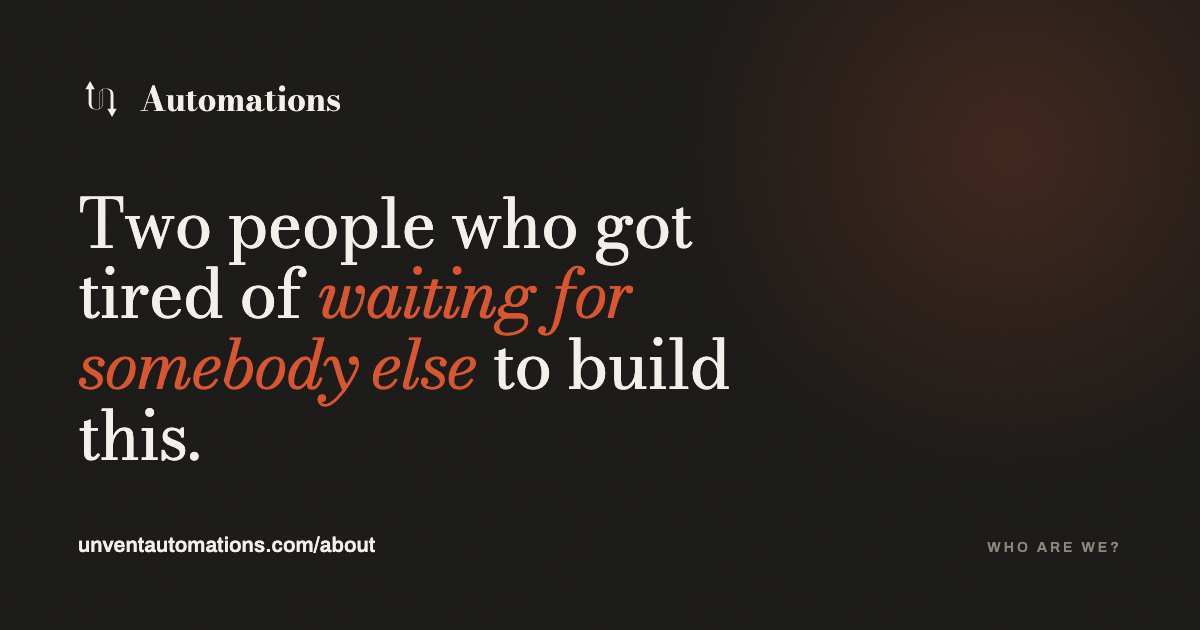
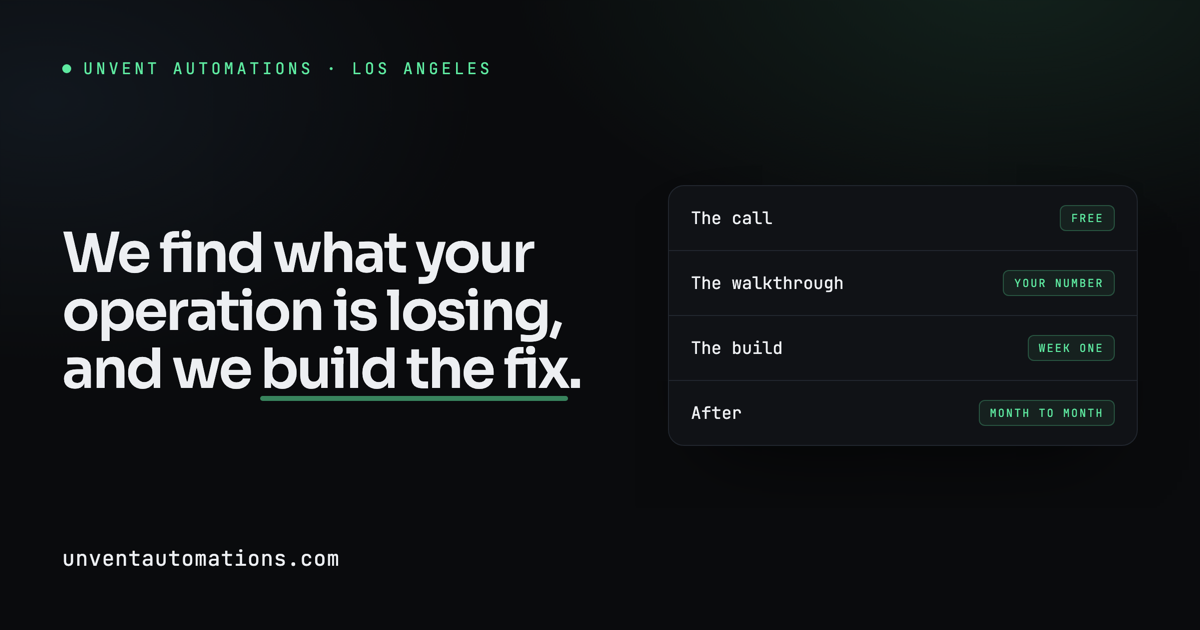
New link-preview cards matching the redesign
The OG images were still the old Bodoni design, so a shared link showed the
previous site under the new headline. Rebuilt both cards from the live design
system: dark ground, Sora and JetBrains Mono, the operations console on the
home card and the engagement table on the about card.

- Rendered at 2x and downsampled to the 1200x630 spec
- og-image.png 451KB -> 219KB, og-about.png 467KB -> 182KB
- og-notes.png deleted, the notes are no longer part of the site
- OG and Twitter urls cache-busted with ?v2 so clients refetch rather than
  serving the previous card from cache

diff --git a/index.html b/index.html
@@ -13,11 +13,11 @@
 <meta property="og:title" content="The work you keep in your head, running on its own">
 <meta property="og:description" content="We walk your whole operation, put a dollar number on what it is quietly losing, and build the systems that close the gap.">
 <meta property="og:url" content="https://unventautomations.com/">
-<meta property="og:image" content="https://unventautomations.com/og-image.png">
+<meta property="og:image" content="https://unventautomations.com/og-image.png?v2">
 <meta name="twitter:card" content="summary_large_image">
 <meta name="twitter:title" content="The work you keep in your head, running on its own">
 <meta name="twitter:description" content="We walk your whole operation, put a dollar number on what it is quietly losing, and build the systems that close the gap.">
-<meta name="twitter:image" content="https://unventautomations.com/og-image.png">
+<meta name="twitter:image" content="https://unventautomations.com/og-image.png?v2">
 <link rel="icon" href="/favicon.svg" type="image/svg+xml">
 <link rel="apple-touch-icon" href="/apple-touch-icon.png">
 <link rel="preconnect" href="https://fonts.googleapis.com">

diff --git a/about/index.html b/about/index.html
@@ -13,11 +13,11 @@
 <meta property="og:title" content="Who we are - Unvent Automations">
 <meta property="og:description" content="We find what your operation is losing, and we build the fix.">
 <meta property="og:url" content="https://unventautomations.com/about/">
-<meta property="og:image" content="https://unventautomations.com/og-about.png">
+<meta property="og:image" content="https://unventautomations.com/og-about.png?v2">
 <meta name="twitter:card" content="summary_large_image">
 <meta name="twitter:title" content="Who we are - Unvent Automations">
 <meta name="twitter:description" content="We find what your operation is losing, and we build the fix.">
-<meta name="twitter:image" content="https://unventautomations.com/og-about.png">
+<meta name="twitter:image" content="https://unventautomations.com/og-about.png?v2">
 <link rel="icon" href="/favicon.svg" type="image/svg+xml">
 <link rel="apple-touch-icon" href="/apple-touch-icon.png">
 <link rel="preconnect" href="https://fonts.googleapis.com">
